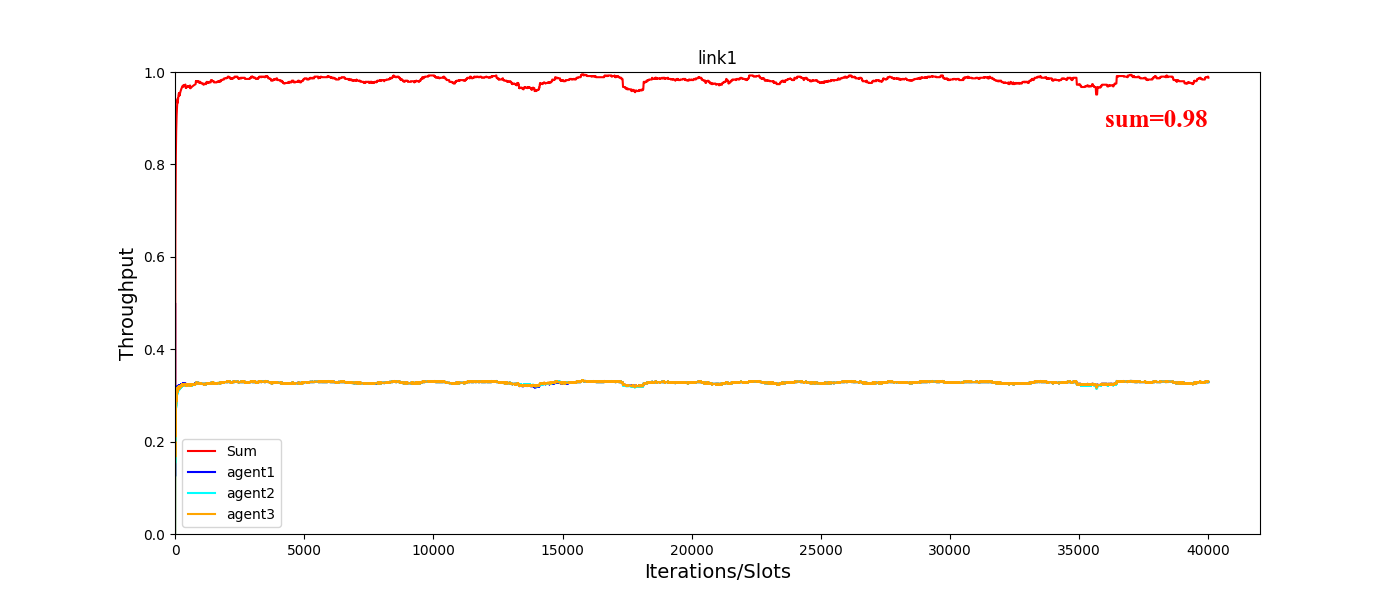
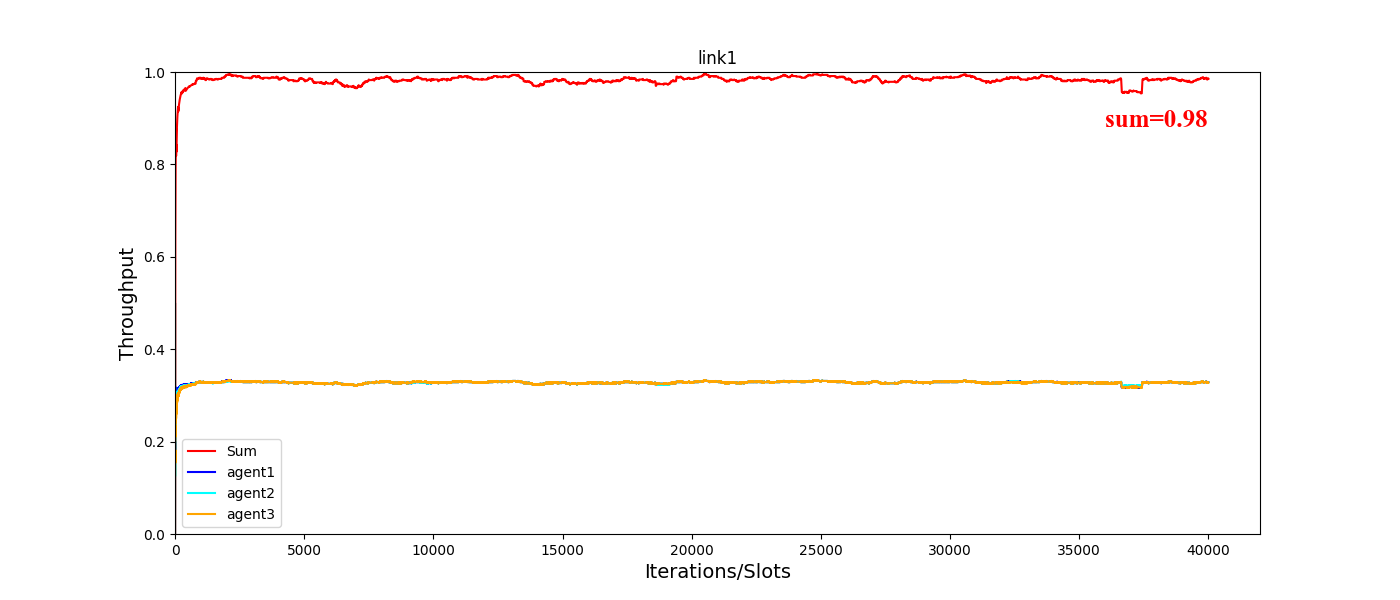
update

diff --git a/simulation.py b/simulation.py
@@ -5,6 +5,7 @@ import torch
 from tqdm import tqdm
 from typing import List
 import matplotlib.pyplot as plt
+import random
 
 def get_id(reward: np.ndarray):
     if np.sum(reward) == 0:
@@ -35,10 +36,14 @@ class Simulation:
         self.n_episode = n_episode
         self.episode_length = episode_length
         self.agents: List[Agent] = []
+        agent_pid = [0, 1, 2]
+        # np.random.shuffle(agent_pid)
+        agent_pid = np.random.choice(agent_pid, size=agent_number)
+        print(agent_pid)
         for i in range(agent_number):
             agent_params['id'] = i+1
             agent = Agent(**agent_params)
-            agent.alg.load_state_dict(torch.load(MODEL_PATH[i]))
+            agent.alg.load_state_dict(torch.load(MODEL_PATH[agent_pid[i]]))
             self.agents.append(agent) # 加载agents
  
     def run(self): 
@@ -65,18 +70,16 @@ class Simulation:
         l1_throughputs = []
         for ag in self.agents:
             l1_throughputs.append(return_throughput(ag.reward_log))   #agent[i] 吞吐量
-        l1_sum_throughput = [l1_throughputs[0][i] + l1_throughputs[1][i] + l1_throughputs[2][i]  for i in
-                                    range(self.episode_length)]  # l1总吞吐量
+        l1_throughputs = np.array(l1_throughputs)
+        l1_sum_throughput = np.sum(l1_throughputs, axis=0) # l1总吞吐量
         
         mean1 = np.mean(round(l1_sum_throughput[-1000], 2))  # 最后逼近的值
 
         print(k, mean1)
         fig = plt.figure(num=k,figsize=(14, 6))
-        # plt.subplot(3, 1, 1)
         plt.plot(l1_sum_throughput, c='r', label='Sum')
-        plt.plot(l1_throughputs[0], c='b', label='agent1')
-        plt.plot(l1_throughputs[1], c='cyan', label='agent2')
-        plt.plot(l1_throughputs[2], c='orange', label='agent3')
+        for i in range(len(l1_throughputs)):
+            plt.plot(l1_throughputs[i], label='agent'+str(i+1))
         # plt.plot(l1_throughput4, c='green', label='agent4')
         # plt.plot(l1_throughput5, c='yellow', label='agent5')
         plt.ylim((0, 1))
@@ -89,7 +92,7 @@ class Simulation:
                 fontsize=18,  # 文本大小
                 fontweight='bold',  # 字体粗细
                 color='red')  # 文本颜色
-        plt.legend()
+        plt.legend(loc="lower left")
         # plt.show()
         plt.savefig(f"fig/episode{k}.png")
     
